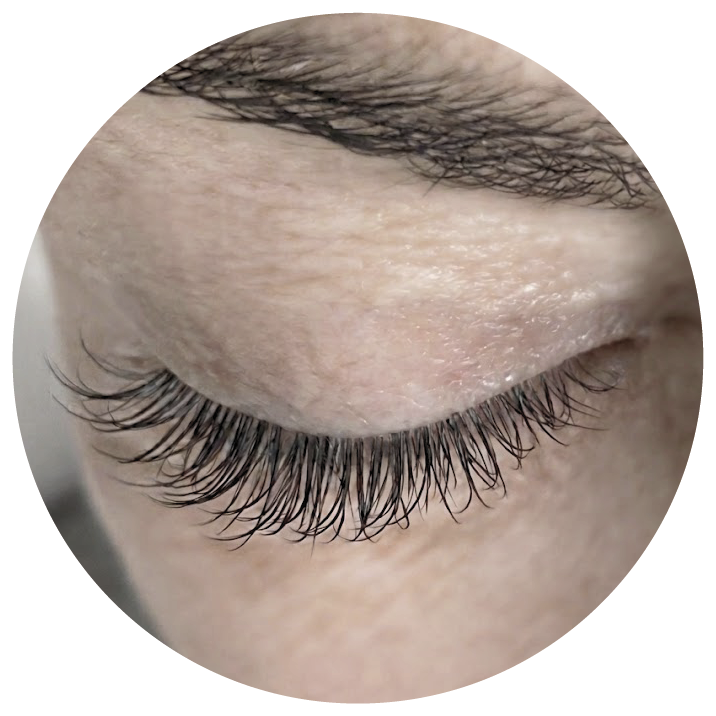
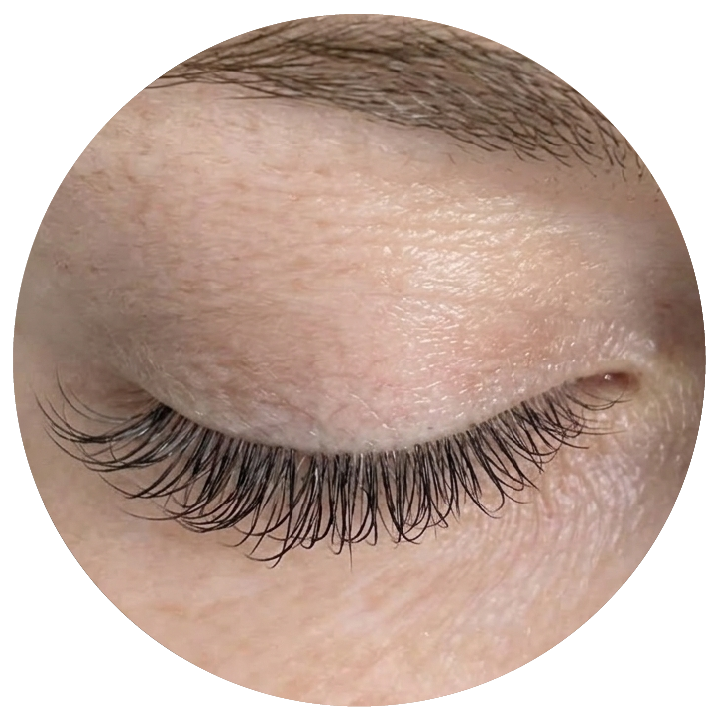
Fix spelling

diff --git a/src/pages/TermsAndConditions.jsx b/src/pages/TermsAndConditions.jsx
@@ -4,7 +4,7 @@ export function TermsAndConditions() {
   return (
     <main className="page-content">
       <section className="document">
-        <h1 className="document-heading">Terms and Condiitions</h1>
+        <h1 className="document-heading">Terms and Conditions</h1>
         <p className="document-updated">
           Casuarina Lashes ABN 18855021094 - Updated January 2025
         </p>
